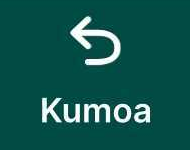
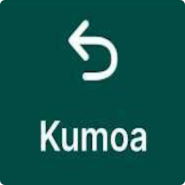
docs: ikonien hienosäätöä

diff --git a/docs/stylesheets/extra.css b/docs/stylesheets/extra.css
@@ -90,7 +90,7 @@
           mask-image: var(--md-admonition-icon--image-box);
 }
   .responsive-small {
-    width: 6%;
+    width: 5%;
     vertical-align: middle;
   }
 

diff --git a/docs/muut_ominaisuudet.md b/docs/muut_ominaisuudet.md
@@ -184,36 +184,19 @@ Mergin Maps -sovellus näyttää reaaliaikaisen GPS-tarkkuuden, joka vaikuttaa s
 
 ## **Karttapiirrokset/luonnostelu**
 
-!!! note "💡 HUOM!" 
-    Vaatii että projekti on ladattu QGIS-työpöytäohjelmistoon. Jos et ole tehnyt tätä vielä, noudata ohjeiden kohtaa: [Projektin lataaminen tietokoneelle](https://gispocoding.github.io/eip-peltomappi/projektin_lataaminen.html#projektin-lataaminen-tietokoneelle-qgis-tyopoytasovellukseen)
-
 Mergin Mapsin karttapiirros (Map Sketching) -ominaisuuden avulla käyttäjä voi piirtää vapaalla kädellä kartan päälle mobiilisovelluksessa. Piirroksia voi tehdä eri väreillä ja ne tallentuvat erilliseen kerrokseen, joka synkronoituu takaisin QGIS-projektiin. Ominaisuus sopii esimerkiksi kenttämuistiinpanojen, reittien tai huomioiden merkitsemiseen nopeasti ilman, että tarvitsee luoda varsinaisia kohteita tietokantaan.
-
-### **Työkalun käyttöönotto**
-
-1.  Avaa projekti QGIS-ohjelmassa.
-
-2.  Valitse ylävalikosta ***Projekti → Ominaisuudet.***
-
-3.  Siirry ***Mergin Maps*** -välilehdelle.
-
-4.  Ota käyttöön ***Enable map sketching*** -valintaruutu. Halutessasi voit myös määrittää värit, joita mobiilisovelluksessa voi käyttää piirroksissa.
-
-5.  Tallenna muutokset. Projektiin luodaan uusi GeoPackage-tiedosto nimeltä ***map_sketches.gpkg***, joka sisältää piirroskerroksen.
-
-6.  Synkronoi projekti Mergin Maps -palveluun.
 
 ### **Karttapiirrosominaisuuden käyttäminen**
 
-1.  Napsauta karttapiirroskuvaketta ***(kynä)*** vasemmassa alakulmassa.
+1.  Napsauta karttapiirroskuvaketta <img src="img/karttapiirros.png" class="responsive-small"> vasemmassa alakulmassa.
 
 2.  Avautuu piirrosvalikko. Piirrä vapaalla kädellä tai styluksella.
 
 3.  Valitse yksi seitsemästä (oletusväriset) tai projektissa määritellyistä väreistä.
 
-4.  Käytä kumityökalua virheiden korjaamiseen ja ***Kumoa***-painiketta viimeisen muutoksen perumiseen.
+4.  Käytä kumityökalua virheiden korjaamiseen ja <img src="img/kumoa_v2.png" class="responsive-small">-painiketta viimeisen muutoksen perumiseen.
 
-5.  Sulje piirrosnäkymä esimerkiksi vihreällä ***X***-painikkeella.
+5.  Sulje piirrosnäkymä esimerkiksi vihreällä <img src="img/ruksi.png" class="responsive-small">-painikkeella.
 
 <details class="video-box">
 <summary>Avaa video</summary>
@@ -221,6 +204,21 @@ Mergin Mapsin karttapiirros (Map Sketching) -ominaisuuden avulla käyttäjä voi
 <iframe src="https://drive.google.com/file/d/1TnyIE0WfYiK_RKHdSKGWvaUlRTl3Wkik/preview" allowfullscreen></iframe>
 </div>
 </details>
+
+### **Valokuvapiirrosominaisuuden käyttäminen**
+
+Valokuvapiirroksia voidaan käyttää merkintöjen tekemiseen valokuviin tai kuviin.
+
+1. Avaa kuva, johon haluat piirtää, napauttamalla sitä muokkaustilassa <img src="img/valokuva_piirros.png" class="responsive-small"> esikatselupaneelin oikeassa yläkulmassa.
+
+2. Valitse haluamasi väri luonnostelua varten väripalettivalikosta.
+
+3. Piirrä vapaamuotoisesti kuvan päälle, korosta asioita tai tee luonnoksia.
+Virheen sattuessa voit perua <img src="img/kumoa_v2.png" class="responsive-small"> viimeisen muokkauksen tai poistaa kaikki luonnokset ja aloittaa alusta.
+
+4. Kun olet valmis, paina vihreää <img src="img/check_mergin_maps.png" class="responsive-small">-painiketta sulkeaksesi luonnostelutilan.
+
+5. Seuraavan synkronoinnin yhteydessä luonnokset tallentuvat ja siirtyvät takaisin projektiisi QGIS:ssä.
 
 ## **Pituuden ja pinta-alan mittaaminen mobiilisovelluksessa**
 

diff --git a/docs/selainkayttoliittyma.md b/docs/selainkayttoliittyma.md
@@ -60,9 +60,9 @@ Muita tasoja, kuten taustakartat verkossa ei näytetä.
 
 Kaikki dashboardin kartat käyttävät taustakarttana Mergin Mapsin vektoritiilipalvelua.
 
-Karttojen sisältö ja Layers-paneeli päivittyvät aina, kun projekti synkronoidaan. Näin näet aina ajantasaiset paikkatiedot.
+Karttojen sisältö ja Layers-paneeli (tasot) päivittyvät aina, kun projekti synkronoidaan. Näin näet aina ajantasaiset paikkatiedot.
 
-Kerrospaneelissa listataan kaikki kartalla näkyvät kerrokset. Näyttöruudussa olevat silmäkuvakkeet (✅) säätelevät kerrosten näkyvyyttä.
+Layerspaneelissa listataan kaikki kartalla näkyvät tasot. Näyttöruudussa olevat silmäkuvakkeet (✅) säätelevät tasojen näkyvyyttä.
 
 
 
